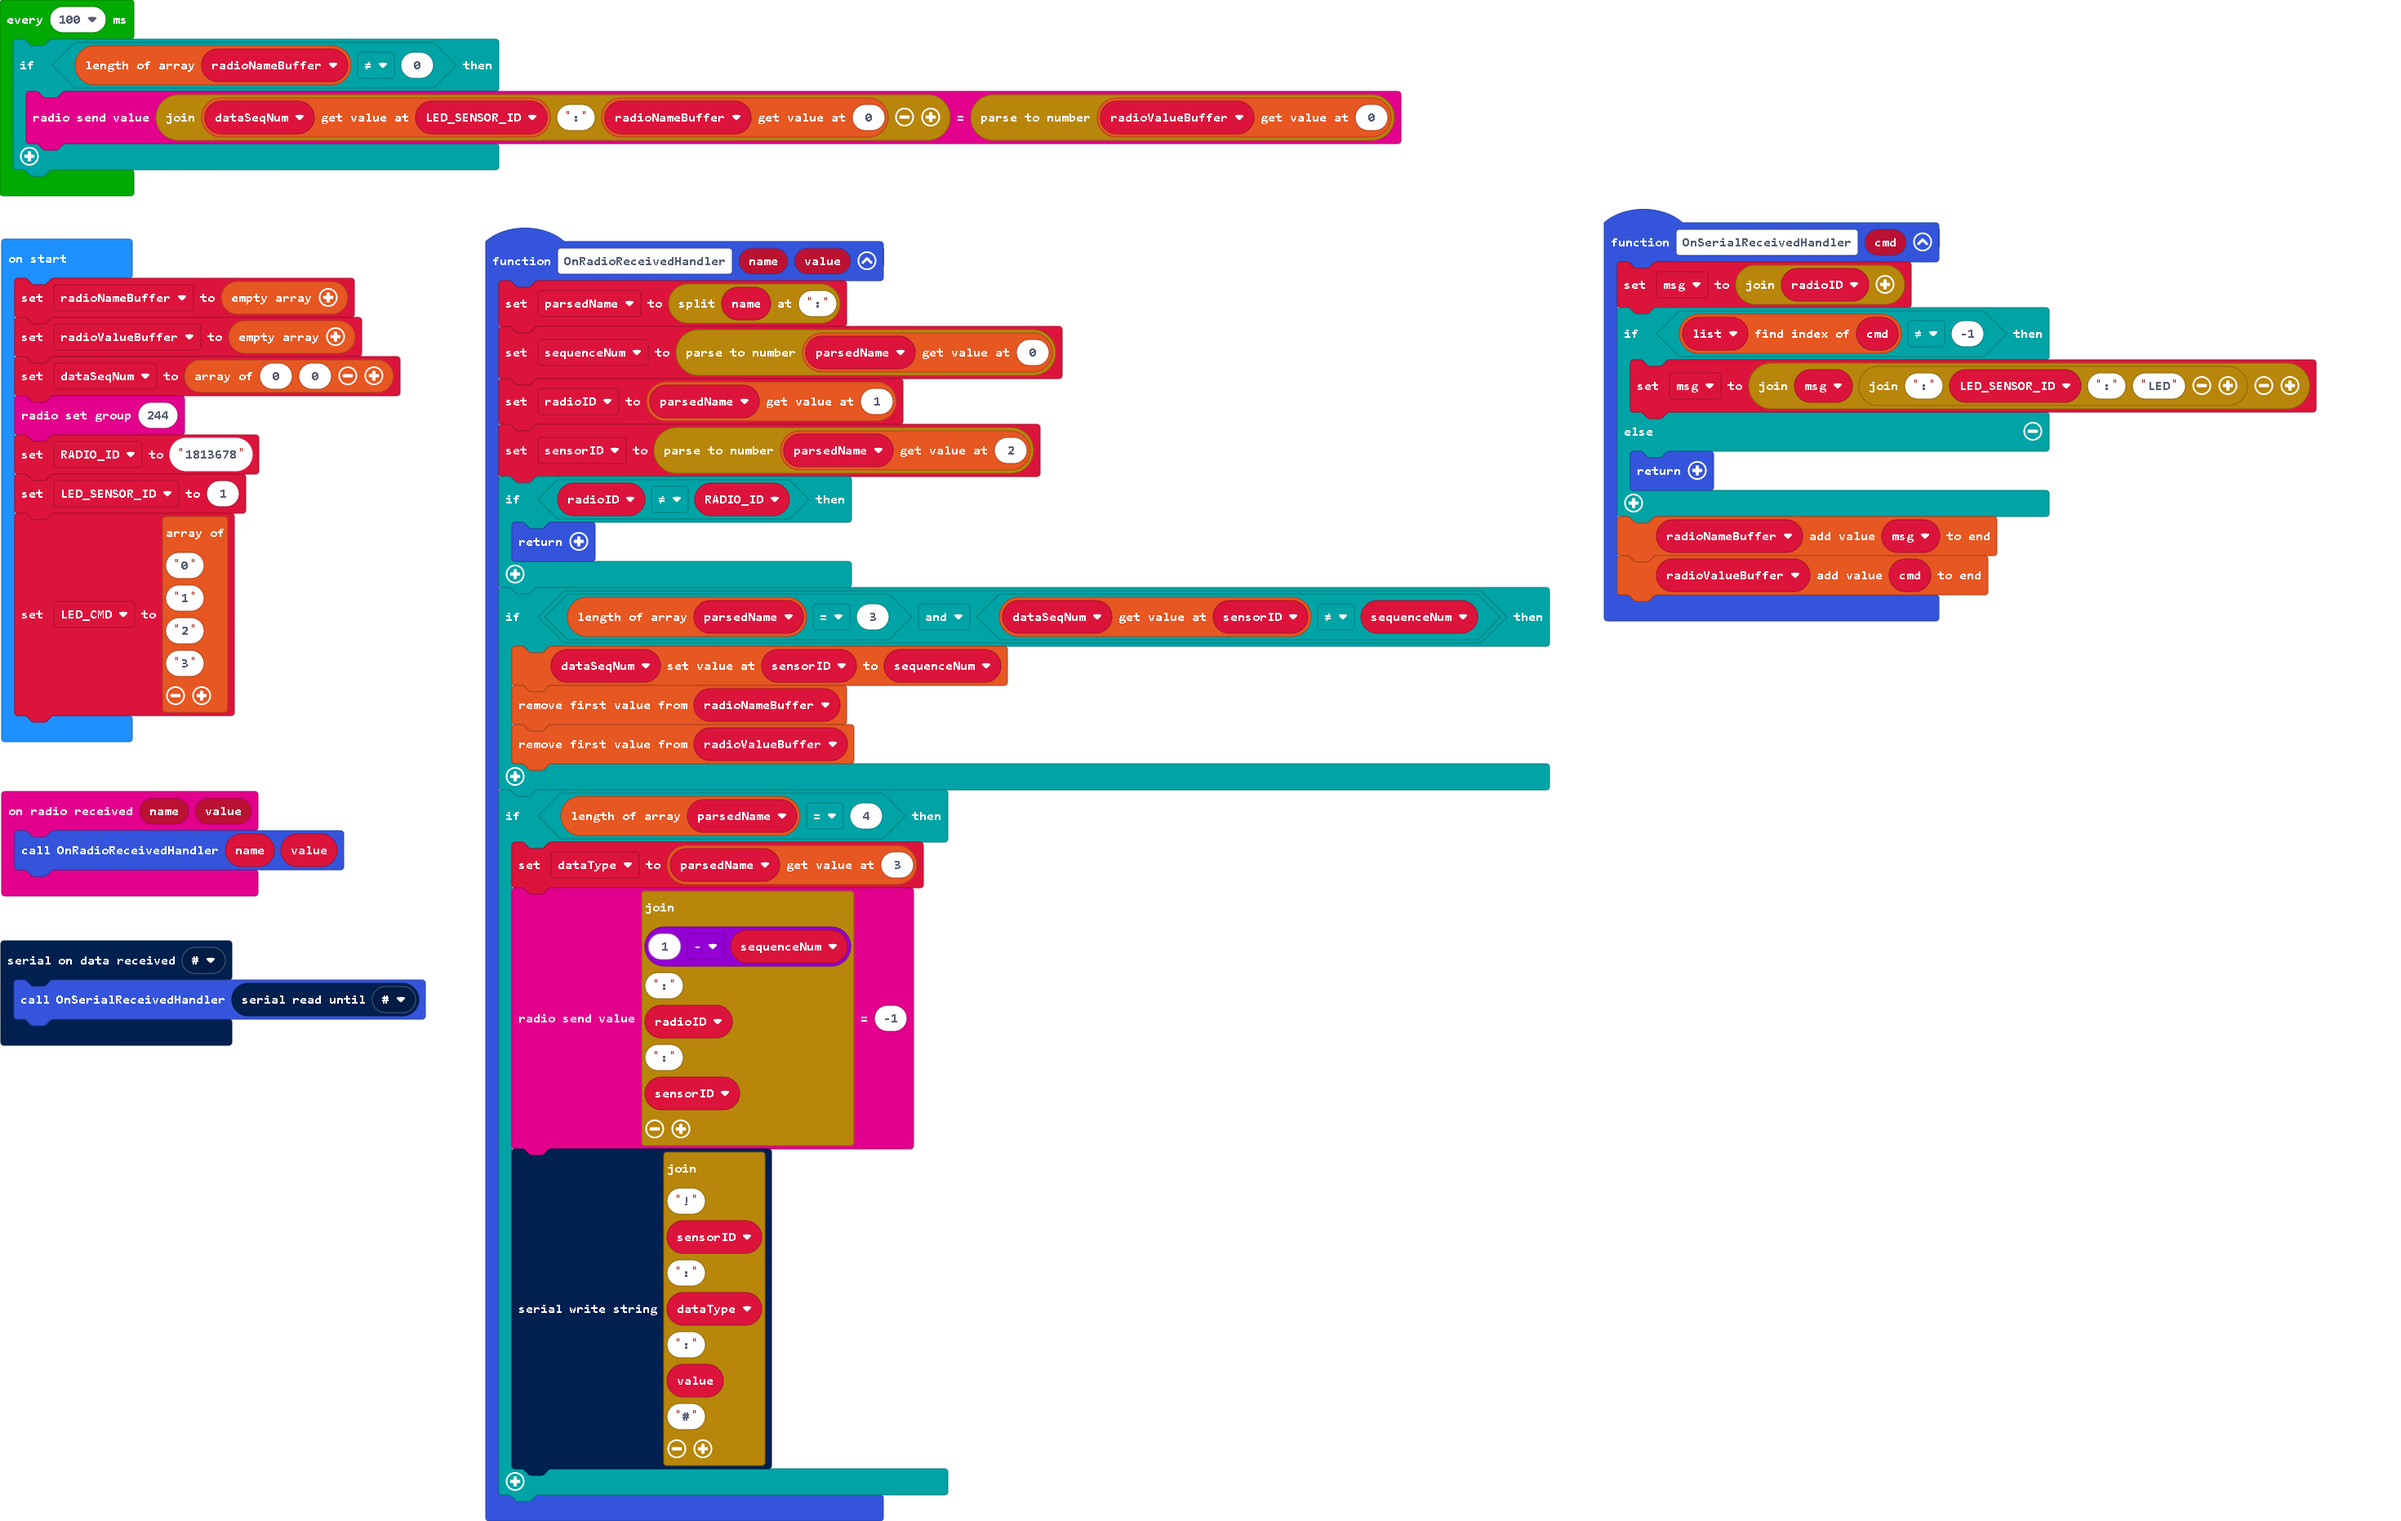
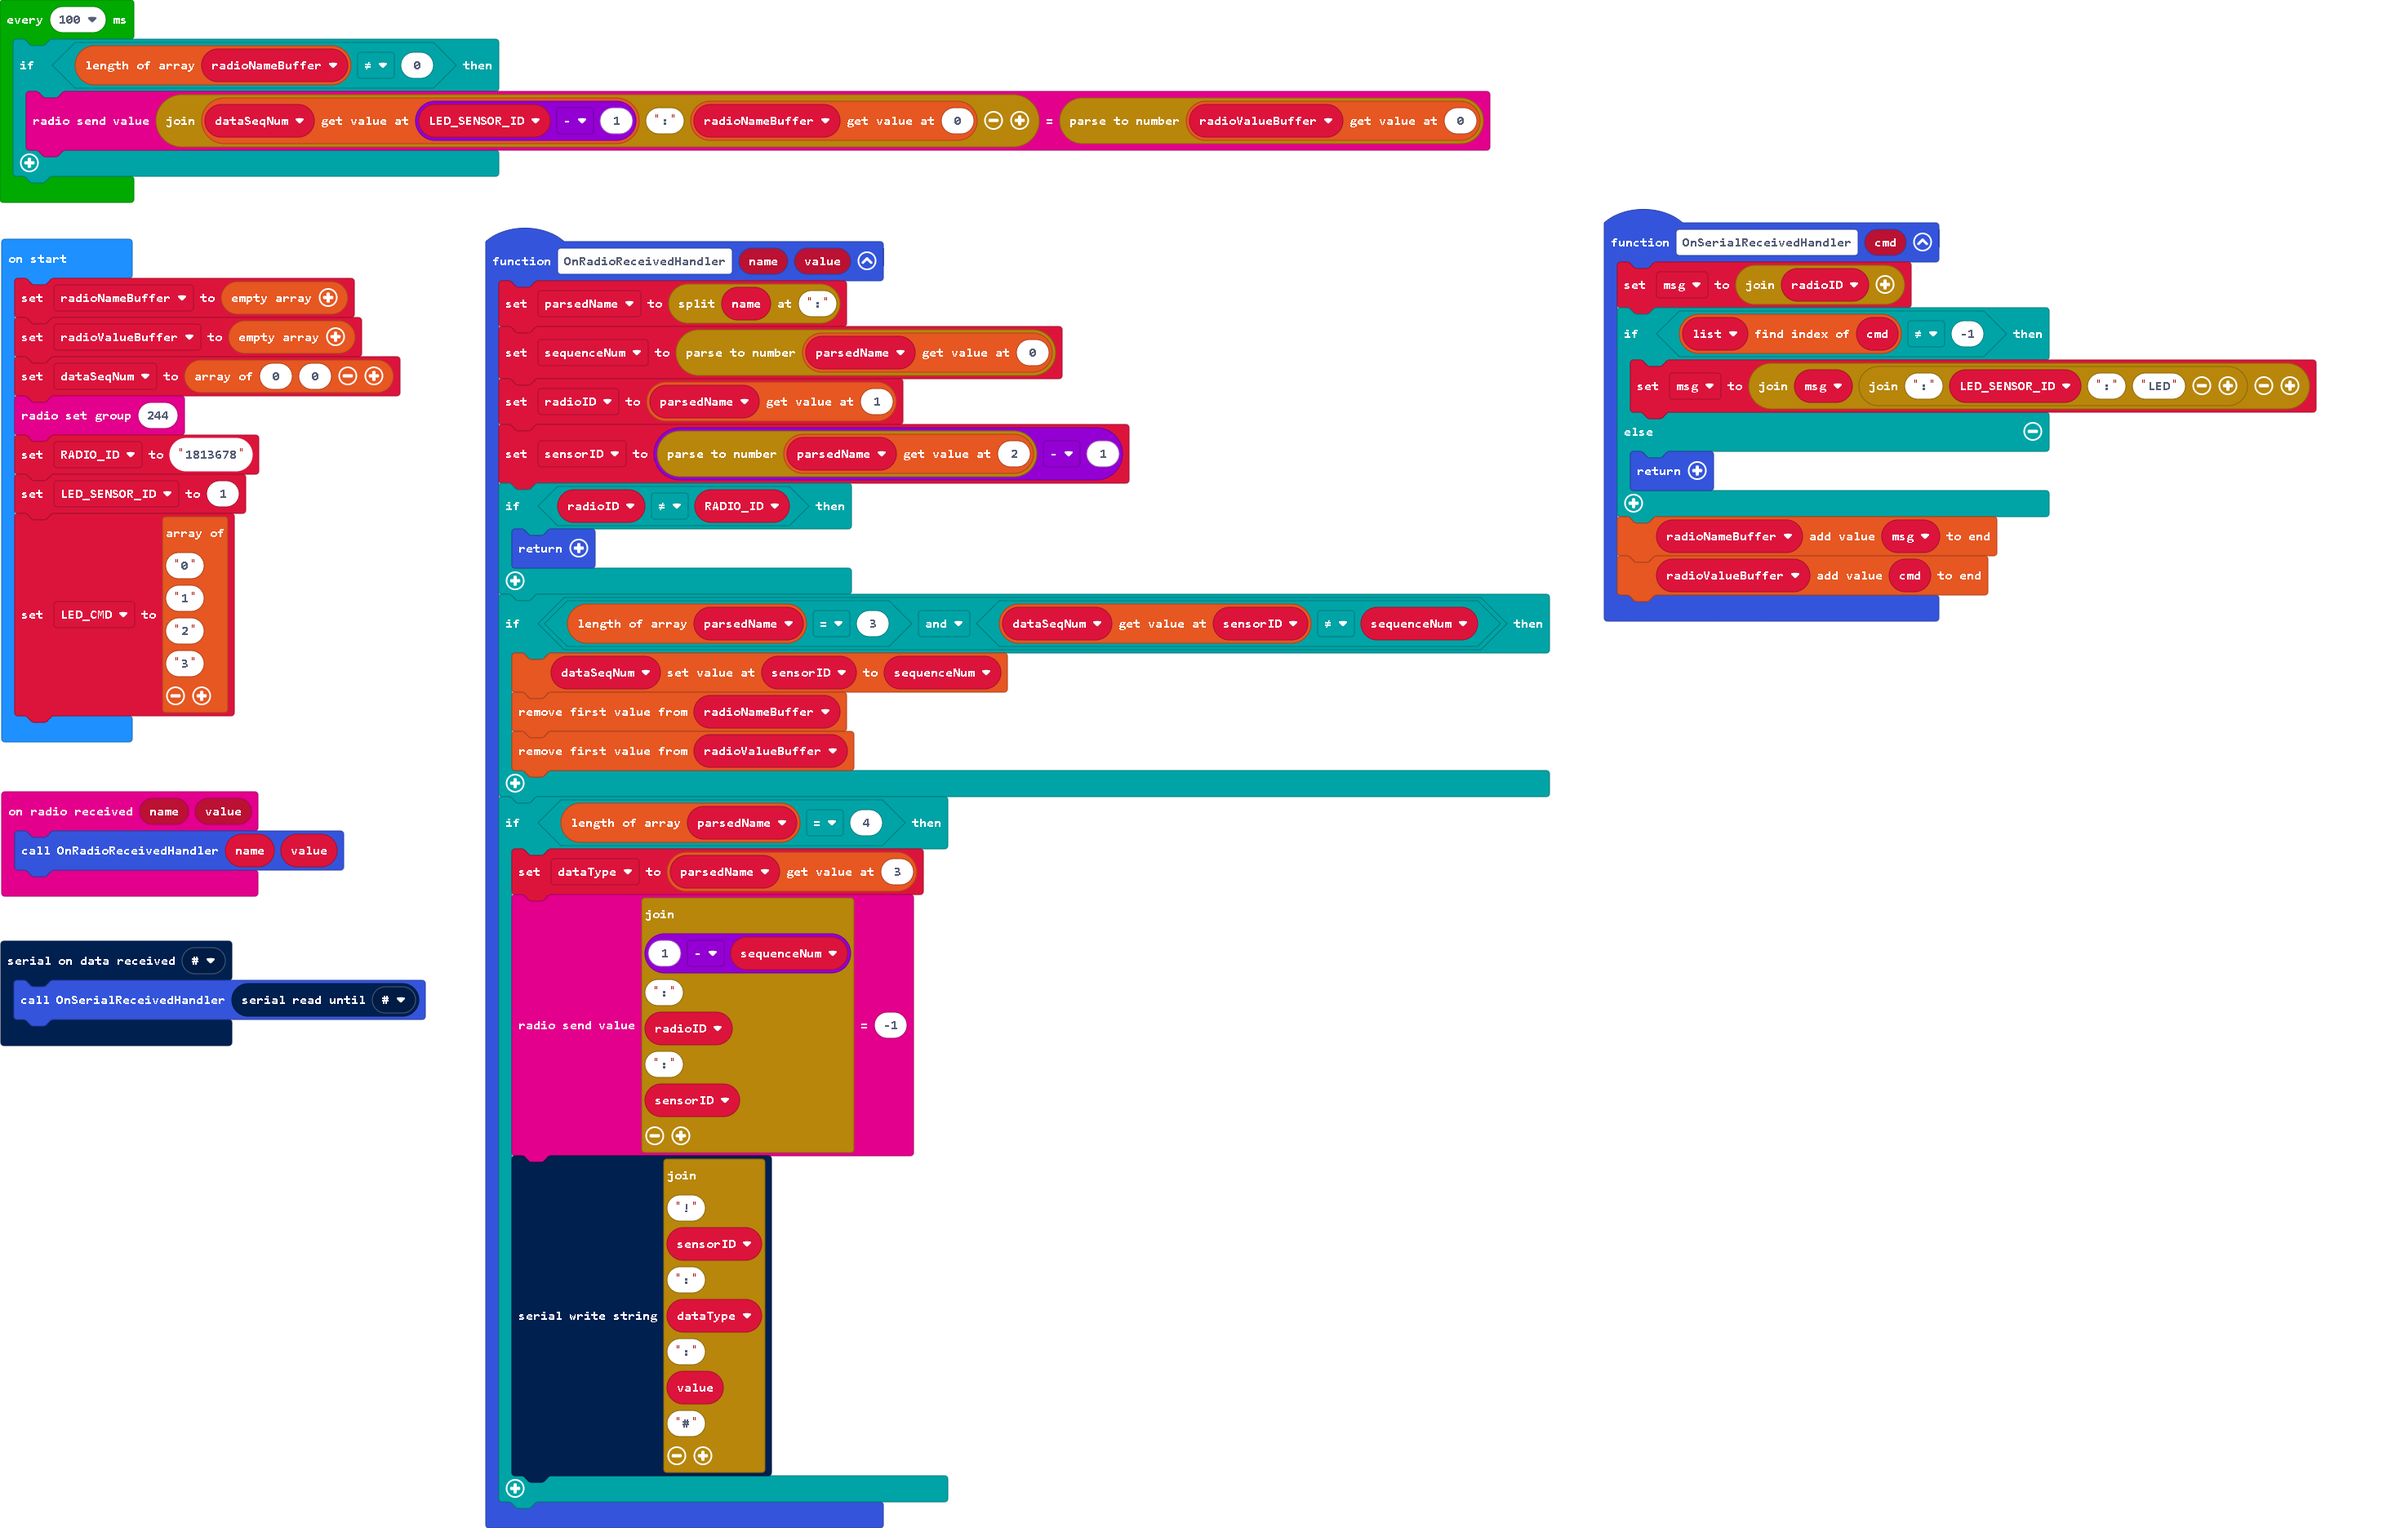
Fix dataSeqNum Index

diff --git a/main.ts b/main.ts
@@ -2,7 +2,7 @@ function OnRadioReceivedHandler (name: string, value: number) {
     parsedName = name.split(":")
     sequenceNum = parseFloat(parsedName[0])
     radioID = parsedName[1]
-    sensorID = parseFloat(parsedName[2])
+    sensorID = parseFloat(parsedName[2]) - 1
     if (radioID != RADIO_ID) {
         return
     }
@@ -59,6 +59,6 @@ let LED_CMD = [
 ]
 loops.everyInterval(100, function () {
     if (radioNameBuffer.length != 0) {
-        radio.sendValue("" + dataSeqNum[LED_SENSOR_ID] + ":" + radioNameBuffer[0], parseFloat(radioValueBuffer[0]))
+        radio.sendValue("" + dataSeqNum[LED_SENSOR_ID - 1] + ":" + radioNameBuffer[0], parseFloat(radioValueBuffer[0]))
     }
 })
